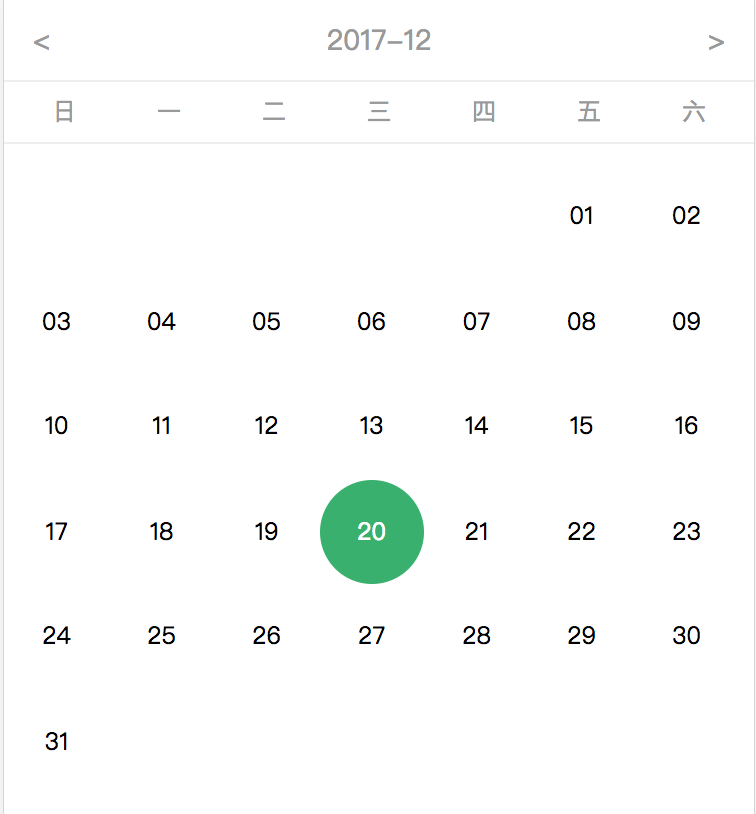
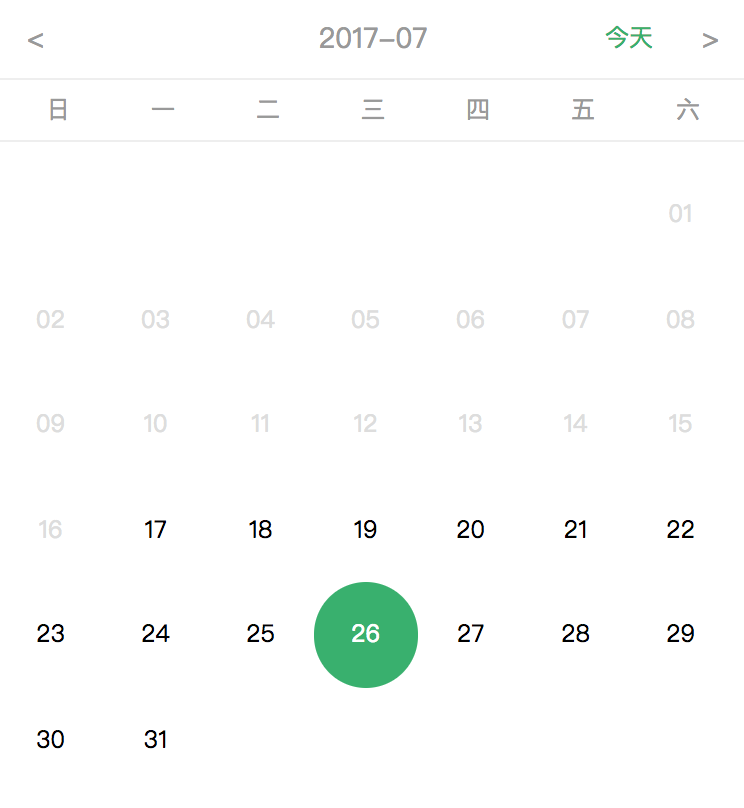
add `today` button

diff --git a/src/CalendarPicker.js b/src/CalendarPicker.js
@@ -3,6 +3,8 @@ import moment from 'moment';
 import MonthCalculator from 'month-calculator';
 import './style.css';
 
+import CalendarPickerWeek from './CalendarPickerWeek';
+
 class CalendarPicker extends React.Component{
     constructor(props) {
         super(props);
@@ -34,10 +36,18 @@ class CalendarPicker extends React.Component{
             format: state.format
         });
         let months = oMonth.getTotal();
+        let enableToday = oMonth.getToday();
+        let options = {};
 
-        this.setState({
-            months: months
-        });
+        options.months = months;
+
+        if (enableToday) {
+            options.showTodayBtn = true;
+            options.todayMonthIndex = enableToday.monthIndex;
+            options.todayDate = enableToday.date;
+        }
+
+        this.setState(options);
     }
     onClickDateCell(item){
         if(item.disabled) return;
@@ -49,6 +59,12 @@ class CalendarPicker extends React.Component{
         if(typeof this.props.onChange === 'function'){
             this.props.onChange(item.date);
         }
+    }
+    changeToToday(){
+        this.setState({
+            currentDate: this.state.todayDate,
+            current: this.state.todayMonthIndex
+        });
     }
     changeToPrevMonth(){
         let current = this.state.current;
@@ -83,18 +99,17 @@ class CalendarPicker extends React.Component{
                 <div className="calendar-picker-box">
                     <div className="calendar-picker-header">
                         <span className="arrow arrow-left" onClick={this.changeToPrevMonth.bind(this)}>&lt;</span>
-                        <span className="title-date">{currentMonth.title}</span>
+                        <span className="title-date">
+                            {currentMonth.title}
+                            {
+                                state.showTodayBtn ?
+                                <small className="title-date-today" onClick={this.changeToToday.bind(this)}>今天</small>
+                                : null
+                            }
+                        </span>
                         <span className="arrow arrow-right" onClick={this.changeToNextMonth.bind(this)}>&gt;</span>
                     </div>
-                    <div className="calendar-picker-week">
-                        <span className="week-cell">日</span>
-                        <span className="week-cell">一</span>
-                        <span className="week-cell">二</span>
-                        <span className="week-cell">三</span>
-                        <span className="week-cell">四</span>
-                        <span className="week-cell">五</span>
-                        <span className="week-cell">六</span>
-                    </div>
+                    <CalendarPickerWeek />
                     <div className="calendar-picker-month">
                         {
                             (currentMonth.dates || []).map((item, idx) => {

diff --git a/src/CalendarPickerWeek.js b/src/CalendarPickerWeek.js
@@ -1,0 +1,22 @@
+import React from 'react';
+
+class CalendarPickerWeek extends React.Component{
+    constructor(props) {
+        super(props);
+    }
+    render () {
+        return (
+            <div className="calendar-picker-week">
+                <span className="week-cell">日</span>
+                <span className="week-cell">一</span>
+                <span className="week-cell">二</span>
+                <span className="week-cell">三</span>
+                <span className="week-cell">四</span>
+                <span className="week-cell">五</span>
+                <span className="week-cell">六</span>
+            </div>
+        )
+    }
+};
+
+export default CalendarPickerWeek;

diff --git a/README.md b/README.md
@@ -1,6 +1,6 @@
 # react-calendar-picker
 [![Build Status](https://travis-ci.org/ChanceYu/react-calendar-picker.svg?branch=master)](https://travis-ci.org/ChanceYu/react-calendar-picker)
-[![](https://img.shields.io/badge/language-JavaScript-brightgreen.svg)]()
+[![](https://img.shields.io/badge/language-JavaScript-brightgreen.svg)](https://github.com/ChanceYu/react-calendar-picker)
 [![](https://img.shields.io/badge/license-MIT-blue.svg)](https://opensource.org/licenses/mit-license.php) 
 
 基于React封装的Calendar日历组件，本人已将日期计算逻辑封装成一个[npm插件](https://www.npmjs.com/package/month-calculator)
